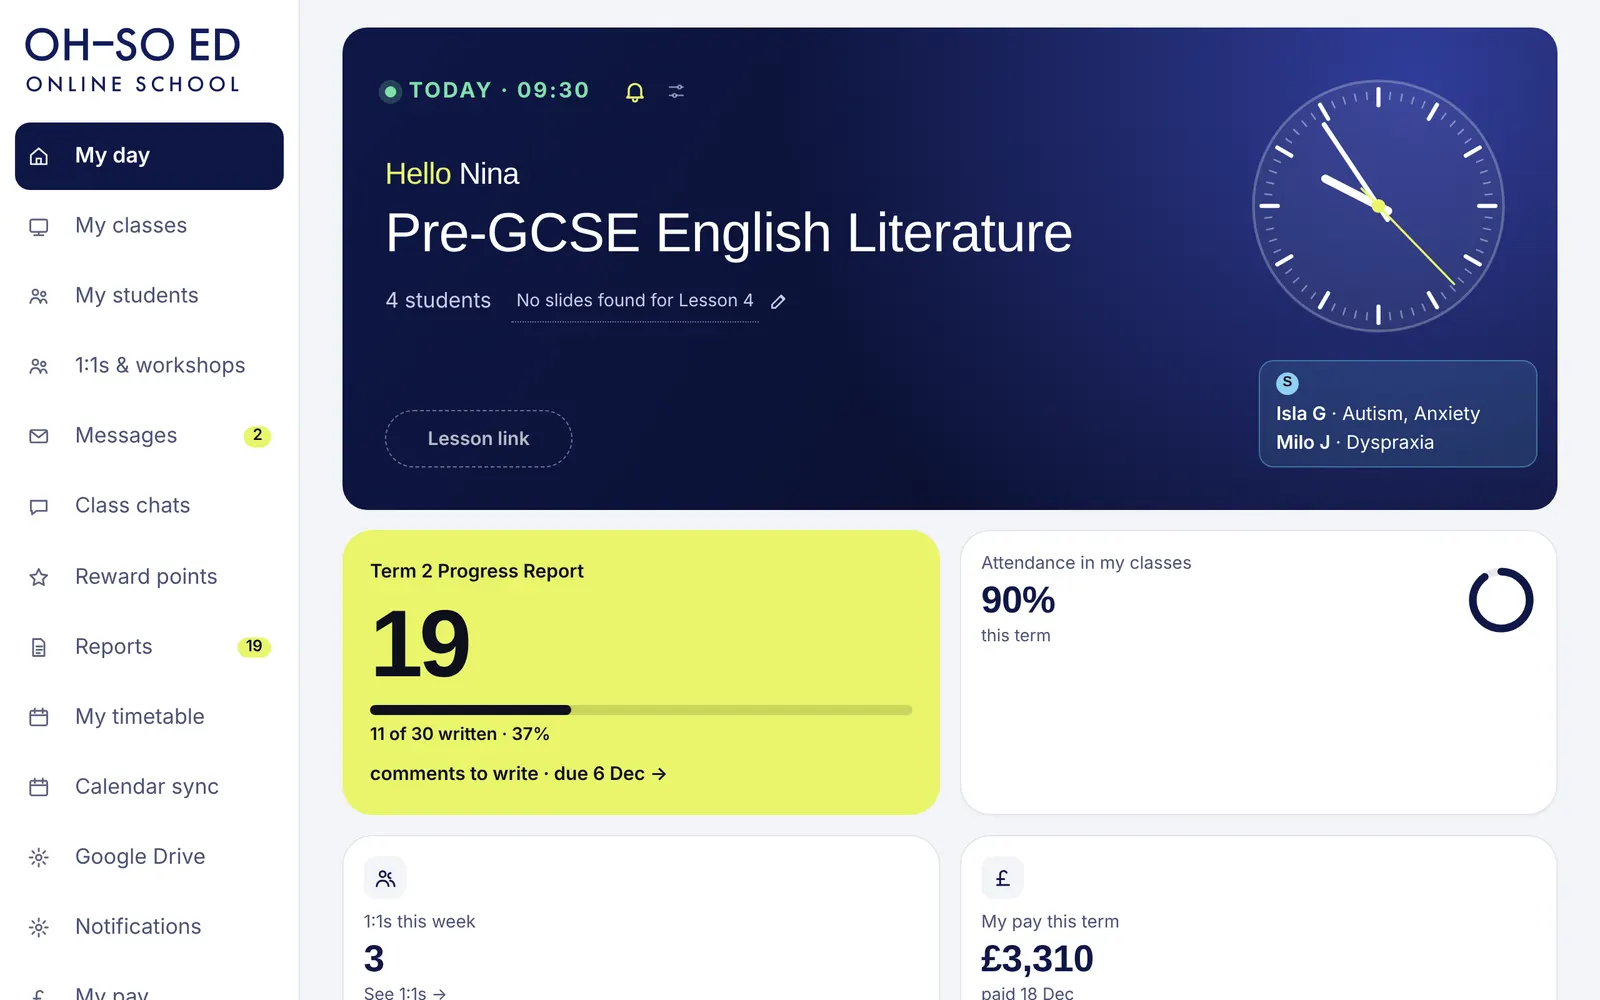
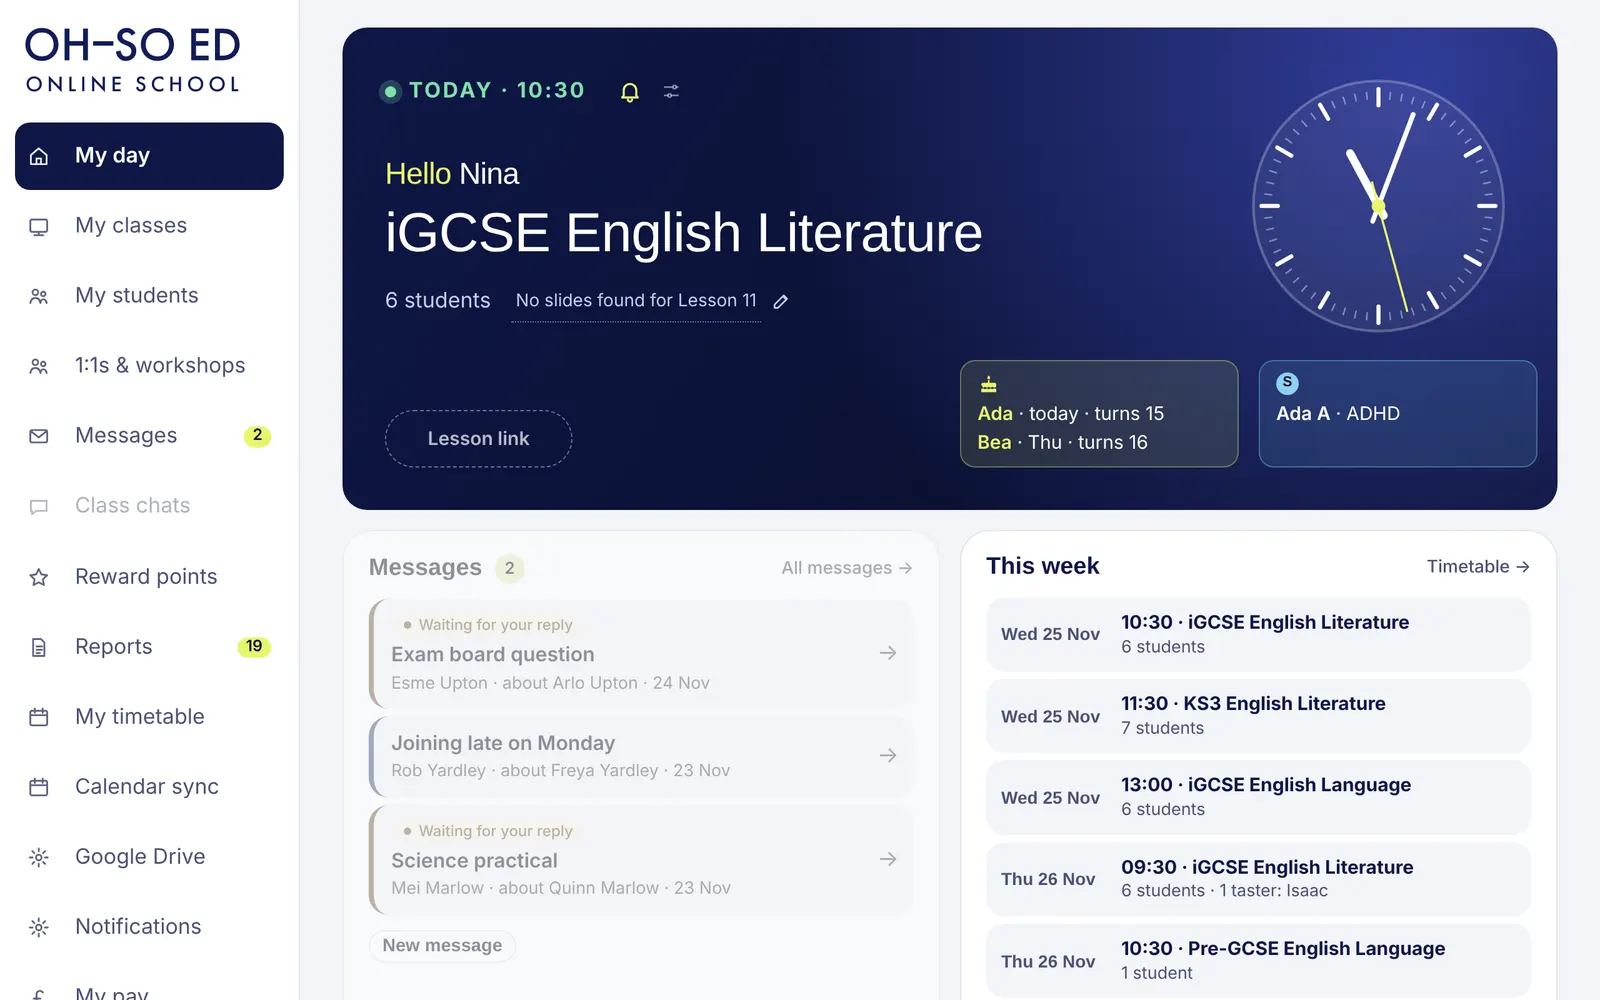
Update 420: teacher presentation matches the live teacher dashboard
Teacher screenshots retaken with OH-SO ED's saved My day layout and with
messaging families and class chats switched off, as on the live site. My day text
updated; the teacher Class chats section removed (switched off).

Claude-Session: https://claude.ai/code/session_019jwWYdrTturMMjiMEQw7Wv

diff --git a/src/app/(site)/newdashboard/content.ts b/src/app/(site)/newdashboard/content.ts
@@ -21,24 +21,21 @@ export const PAGES: Record<Role, Page> = {
       { t: "Reports and pay in one place", d: "Write each term’s comments and see what you’ll be paid, term by term." },
     ],
     sections: [
-      { id: "my-day", title: "My day", shot: "home", alt: "My day: the next lesson with a clock and countdown, SEND notes, reports to write, attendance, 1:1s and pay",
+      { id: "my-day", title: "My day", shot: "home", alt: "My day: the next lesson with a clock and countdown, this week’s lessons, Classroom stream, messages from the school, attendance, 1:1s and reports",
         text: "Your home page. It opens on your next lesson, with a countdown and the button to join its Google Meet.",
-        points: ["The lesson’s slides, found in its Google Drive folder", "SEND notes for the students in that class", "Reports to write, attendance in your classes, this week’s 1:1s and your pay this term", "Work waiting to be marked, with a 7-day countdown", "Students behind on their work, and messages waiting for you"] },
+        points: ["The lesson’s slides, found in its Google Drive folder, and SEND notes for the students in that class", "This week’s lessons, and the latest posts from your Google Classrooms", "Messages from the school office", "Attendance in your classes, this week’s 1:1s, reports to write and reward points"] },
       { id: "classes", title: "My classes", shot: "classes", alt: "My classes: each class with its times, students, attendance, SEND and next lesson",
         text: "Every class you teach, with its lesson times, how many students, attendance this term, SEND and the next lesson.",
         points: ["Switch between a list and cards", "Jump straight to a class’s students, assignments or attendance"] },
       { id: "class", title: "A class page", shot: "class", alt: "A class page: students with attendance, reward points, SEND and Classroom status, and the class’s assignments",
         text: "Everything about one class: its students with their attendance, reward points, SEND and whether they’ve joined Google Classroom.",
-        points: ["Assignments from Google Classroom: who has handed in, what’s marked and what’s late", "Open a student’s work in Classroom to mark it there, as you do now", "Open the class chat from the top of the page"] },
+        points: ["Assignments from Google Classroom: who has handed in, what’s marked and what’s late", "Open a student’s work in Classroom to mark it there, as you do now"] },
       { id: "students", title: "My students", shot: "students", alt: "My students: every student across your classes with attendance, points and SEND",
         text: "All your students across every class, with attendance, reward points, SEND and birthdays.",
         points: ["Search by name", "Filter to SEND, or to anyone under 85% attendance"] },
       { id: "messages", title: "Messages", shot: "messages", alt: "Messages: conversations with the school office",
         text: "Write to the school office in one place, and keep every conversation in a thread you can come back to.",
         points: ["See which conversations are waiting for your reply", "Messages from the office come to your email too", "No personal email addresses or phone numbers are shared"] },
-      { id: "chats", title: "Class chats", shot: "chats", alt: "Class chats: a group chat for each class, organised by topic",
-        text: "A group chat for each of your classes, organised into topics so questions don’t get lost.",
-        points: ["Students can start a thread, e.g. “Homework question 3”", "You and the office can see every chat"] },
       { id: "reports", title: "Reports", shot: "reports", alt: "Reports to write: each class with how many comments are written, and a Write button",
         text: "Each term’s progress report comments, class by class, with how many you’ve written and the due date.",
         points: ["Write once the assessment is marked in Classroom", "Save as you go, then submit for the office to approve"] },
